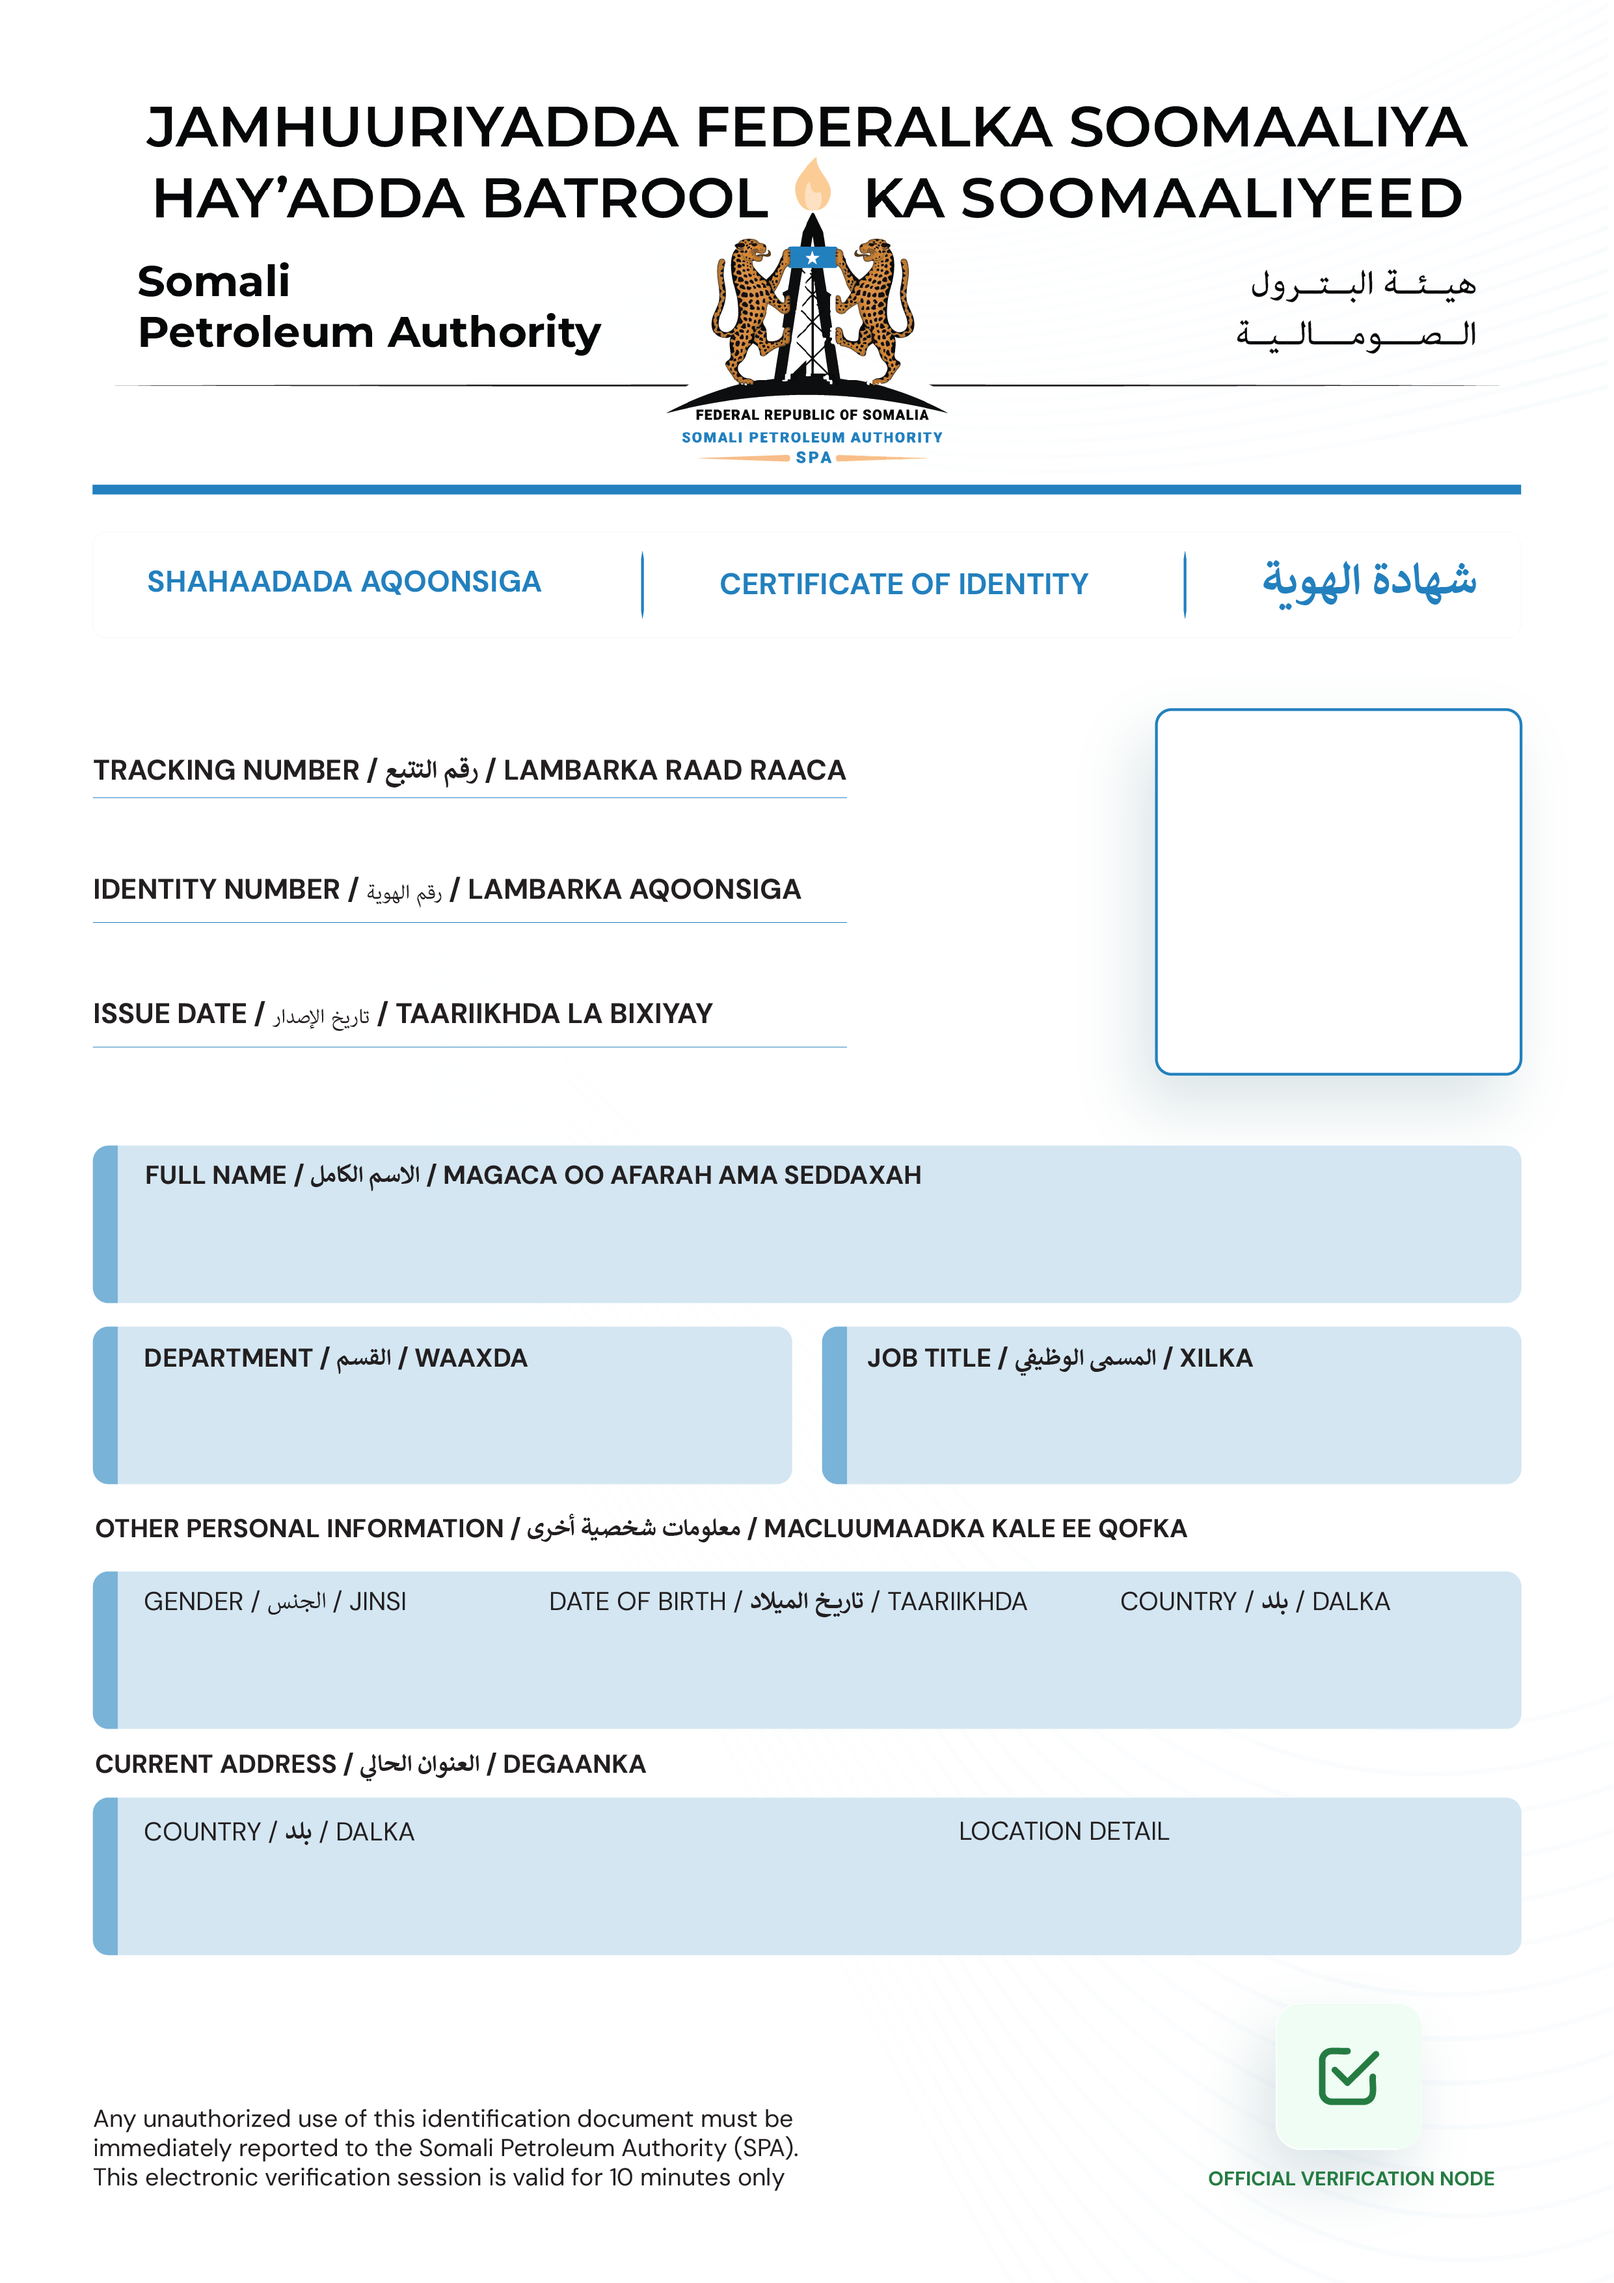
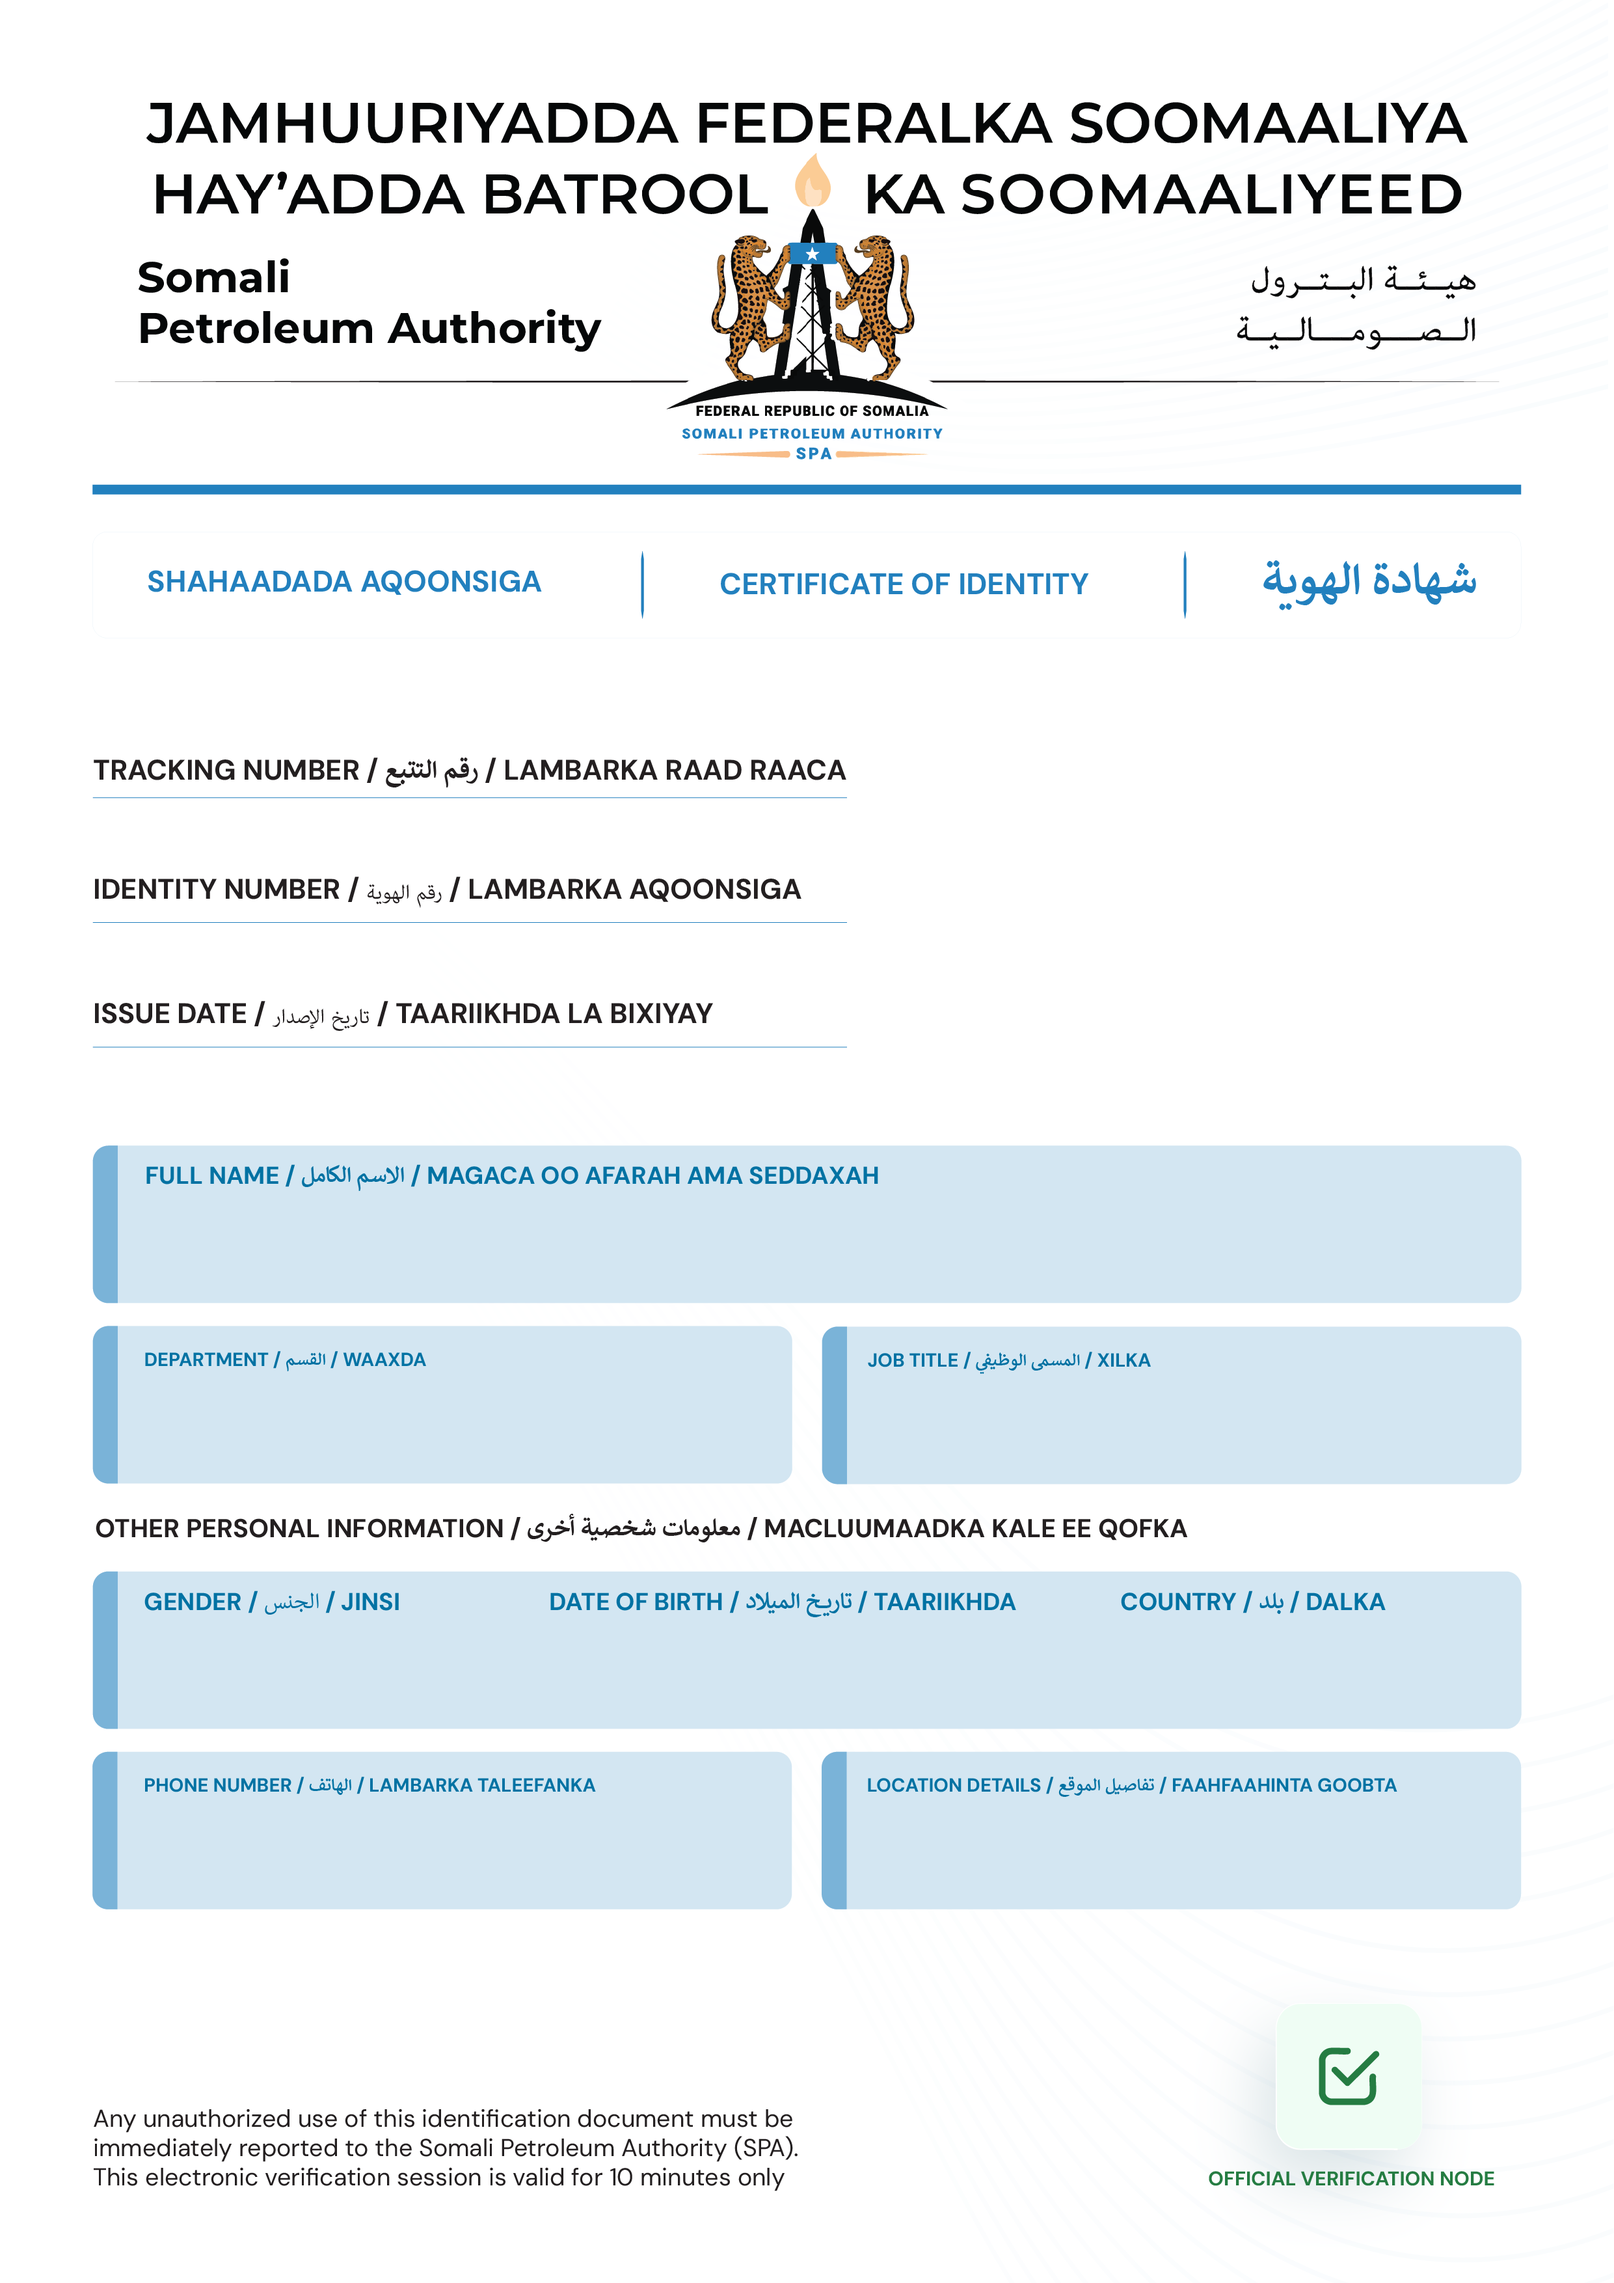
..

diff --git a/frontend/src/app/verify/[code]/page.tsx b/frontend/src/app/verify/[code]/page.tsx
@@ -2,7 +2,7 @@
 
 import { useEffect, useState } from "react";
 import { useParams } from "next/navigation";
-import { CheckCircle2, XCircle, ShieldCheck, Loader2, MapPin, Calendar, User, Fingerprint, AlertTriangle, Clock, UserX } from "lucide-react";
+import { CheckCircle2, XCircle, ShieldCheck, Loader2, MapPin, Calendar, User, Fingerprint, AlertTriangle, Clock, UserX, Mail, MessageCircle } from "lucide-react";
 import { verifyQrCode } from "@/api/generateIdApi";
 
 import { getImageUrl } from "@/utils/url";
@@ -128,34 +128,11 @@ export default function VerificationPage() {
     }
 
     return (
-        <div className="min-h-screen bg-[#F0F2F5] font-sans pb-20">
-            {/* Blue Banner Header */}
-            <div className="bg-[#1e4e8c] text-white relative overflow-hidden">
-                <div className="absolute inset-0 opacity-10 pointer-events-none">
-                    <div className="absolute top-0 right-0 w-96 h-96 bg-white rounded-full blur-[120px] -mr-48 -mt-48"></div>
-                    <div className="absolute bottom-0 left-0 w-80 h-80 bg-blue-400 rounded-full blur-[100px] -ml-40 -mb-40"></div>
-                </div>
+        <div className="min-h-screen font-sans pb-20">
 
-                <div className="max-w-4xl mx-auto px-6 py-8 md:py-16 flex flex-col items-center relative z-10 text-center md:text-left">
-                    <div className="flex flex-col md:flex-row items-center gap-4 md:gap-6 mb-8 transform hover:scale-105 transition-transform">
-                        <div className="h-16 w-16 md:h-20 md:w-20 bg-white/10 backdrop-blur-md rounded-full flex items-center justify-center border border-white/20 shadow-2xl p-3 md:p-4">
-                            <ShieldCheck className="h-8 w-8 md:h-10 md:w-10 text-white" />
-                        </div>
-                        <div className="h-1 lg:h-12 w-12 lg:w-[2px] bg-white/20 hidden md:block"></div>
-                        <div className="text-center md:text-left">
-                            <h1 className="text-2xl md:text-4xl lg:text-5xl font-black tracking-tight uppercase leading-tight">
-                                ID Verification
-                            </h1>
-                            <p className="text-[8px] md:text-[10px] text-blue-200 mt-1 md:mt-2 font-black uppercase tracking-[0.2em] md:tracking-[0.4em] opacity-80">
-                                Somali Petroleum Authority
-                            </p>
-                        </div>
-                    </div>
-                </div>
-            </div>
 
             {/* Document Body */}
-            <div className="max-w-3xl mx-auto px-4 -mt-10 relative z-20">
+            <div className="max-w-3xl mx-auto px-4 -mt-10 relative z-20 mt-20">
                 <div className="relative shadow-[0_20px_50px_rgba(0,0,0,0.15)]  overflow-hidden ">
                     {/* Background Template */}
                     <img
@@ -165,7 +142,7 @@ export default function VerificationPage() {
                     />
 
                     {/* Photo Overlay */}
-                    <div className="absolute top-[31%] right-[5.8%] w-[21.8%] h-[15.8%] aspect-[0.85/1] rounded-sm overflow-hidden  ">
+                    <div className="absolute top-[31%] right-[5.8%] w-[21.8%] h-[17.8%] aspect-[0.85/1] overflow-hidden  ">
                         {data?.employee?.user?.photo ? (
                             <img
                                 src={getImageUrl(data.employee.user.photo) || undefined}
@@ -180,13 +157,13 @@ export default function VerificationPage() {
                     </div>
 
                     {/* Metadata Overlays (Tracking, ID, Issue Date) */}
-                    <div className="absolute top-[32.5%] left-[54%] text-[#143d73] font-normal  tracking-tight">
+                    <div className="absolute top-[35.5%] left-[6%] text-[#143d73] font-black uppercase tracking-tight">
                         {data?.qrCode || "N/A"}
                     </div>
-                    <div className="absolute top-[38.6%] left-[54%] text-[#143d73] font-black text-[clamp(10px,1.8vw,14px)] tracking-tight">
-                        ID-0000{data?.employee?.id || "0"}
+                    <div className="absolute top-[41.1%] left-[6%] text-[#143d73] font-black text-[clamp(10px,1.8vw,14px)] tracking-tight">
+                        S/N: SPA01{data?.employee?.id?.toString().padStart(4, '0')}/26
                     </div>
-                    <div className="absolute top-[44%] left-[54%] text-[#143d73] font-black text-[clamp(10px,1.8vw,14px)] tracking-tight">
+                    <div className="absolute top-[46.8%] left-[6%] text-[#143d73] font-black text-[clamp(10px,1.8vw,14px)] tracking-tight">
                         {formatDate(data?.issueDate)}
                     </div>
 
@@ -221,26 +198,54 @@ export default function VerificationPage() {
                     </div>
 
                     {/* Address/Location Row */}
-                    <div className="absolute top-[81.3%] left-[8.8%] w-[45%] text-black font-normal text-[clamp(8px,1.6vw,16px)] truncate">
-                        Somalia
+                    <div className="absolute top-[79.6%] left-[8.8%] w-[45%] text-black font-normal text-[clamp(8px,1.6vw,16px)] truncate">
+                        {data?.employee?.user?.phone || "N/A"}
                     </div>
-                    <div className="absolute top-[81.3%] left-[59.2%] w-[33%] text-black font-normal text-[clamp(8px,1.6vw,16px)] truncate">
+                    <div className="absolute top-[79.6%] left-[53.7%] w-[33%] text-black font-normal text-[clamp(8px,1.6vw,16px)] truncate">
                         {data?.employee?.address || "Mogadishu"}
                     </div>
                 </div>
 
                 {/* Footer Section */}
                 <div className="mt-12 text-center space-y-6">
-                    <div className="inline-flex items-center gap-3 px-6 py-3 bg-white shadow-lg rounded-full border border-green-100 transform hover:scale-105 transition-all duration-300">
-                        <div className="bg-green-500 rounded-full p-1">
-                            <CheckCircle2 className="w-4 h-4 text-white" />
+
+                    {/* Contact Us */}
+                    <div className="space-y-4">
+                        <p className="text-gray-400 text-[11px] font-black uppercase tracking-[0.5em] opacity-60">
+                            Contact Support
+                        </p>
+                        <div className="flex flex-col sm:flex-row gap-4 items-center justify-center pt-2">
+                            <a
+                                href="https://wa.me/252615930944"
+                                target="_blank"
+                                rel="noopener noreferrer"
+                                className="group flex items-center gap-4 px-6 py-3 bg-white/80 backdrop-blur-sm rounded-2xl border border-green-100 shadow-lg shadow-green-900/5 transition-all duration-300 hover:bg-green-50 hover:-translate-y-1 hover:shadow-green-900/10"
+                            >
+                                <div className="p-2 bg-green-100 rounded-xl text-green-600 group-hover:scale-110 transition-transform">
+                                    <MessageCircle className="w-5 h-5" />
+                                </div>
+                                <div className="text-left">
+                                    <p className="text-[8px] font-black text-green-600/50 uppercase tracking-widest leading-none mb-1">WhatsApp</p>
+                                    <p className="text-sm font-bold text-gray-700 tracking-tight">+252 61 593 0944</p>
+                                </div>
+                            </a>
+
+                            <a
+                                href="mailto:info@spa.gov.so"
+                                className="group flex items-center gap-4 px-6 py-3 bg-white/80 backdrop-blur-sm rounded-2xl border border-blue-100 shadow-lg shadow-blue-900/5 transition-all duration-300 hover:bg-blue-50 hover:-translate-y-1 hover:shadow-blue-900/10"
+                            >
+                                <div className="p-2 bg-blue-100 rounded-xl text-blue-600 group-hover:scale-110 transition-transform">
+                                    <Mail className="w-5 h-5" />
+                                </div>
+                                <div className="text-left">
+                                    <p className="text-[8px] font-black text-blue-600/50 uppercase tracking-widest leading-none mb-1">Email Us</p>
+                                    <p className="text-sm font-bold text-gray-700 tracking-tight">info@spa.gov.so</p>
+                                </div>
+                            </a>
                         </div>
-                        <span className="text-gray-700 font-bold text-sm tracking-wide">
-                            Authenticated Verification
-                        </span>
                     </div>
 
-                    <div className="pt-8 border-t border-gray-200/50">
+                    <div className="pt-4 border-t border-gray-200/50">
                         <p className="text-gray-400 text-[10px] font-black uppercase tracking-[0.4em]">
                             © {new Date().getFullYear()} Somali Petroleum Authority • SPA-CMS System
                         </p>
